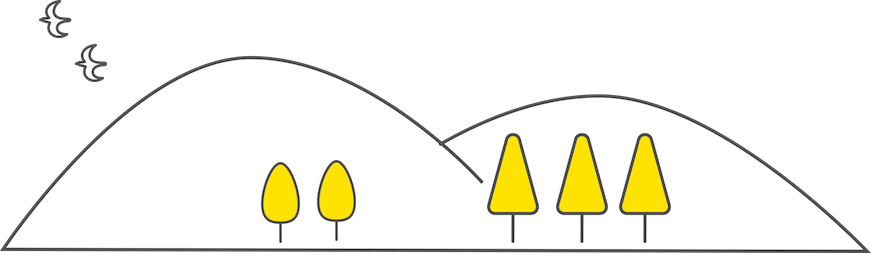
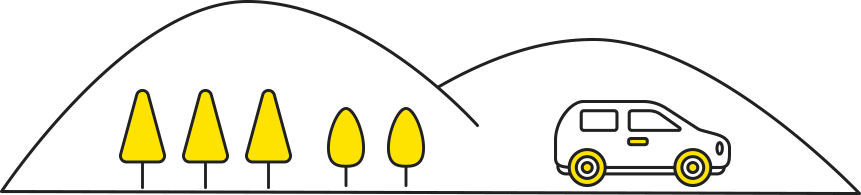
[fix]修正依頼6/23

diff --git a/assets/sass/object/component/_blockHeading.scss b/assets/sass/object/component/_blockHeading.scss
@@ -34,78 +34,77 @@
     width: 100%;
     position: absolute;
 
-    &--cloud {
-      max-width: 241px;
-      bottom: 25px;
-      left: 40px;
-      z-index: 1;
-      @media screen and (max-width: 1100px) {
-        max-width: 191px;
-        bottom: 83px;
-      }
-      @include g.mq(sp) {
-        max-width: 172px;
-        bottom: 139px;
-        left: 17px;
-      }
-      @include g.mq(xsp) {
-        max-width: 125px;
-        bottom: unset;
-        top: 24px;
-        left: 21px;
-      }
-    }
-  
-    &--house {
-      max-width: 214px;
-      bottom: 0;
-      left: 201px;
-      z-index: 2;
-      @media screen and (max-width: 1100px) {
-        left: 84px;
-      }
-      @include g.mq(sp) {
-        max-width: 208px;
-        left: 32px;
-      }
-      @include g.mq(xsp) {
-        max-width: 169px;
-        left: -18px;
-      }
-    }
-  
-    &--car {
-      max-width: 88px;
-      bottom: 0;
-      right: 350px;
-      z-index: 2;
-      @media screen and (max-width: 1100px) {
-        right: 205px;
-      }
-      @include g.mq(sp) {
-        max-width: 72px;
-      }
-      @include g.mq(xsp) {
-        max-width: 58.8px;
-        right: 110px;
-      }
-    }
-  
     &--mount {
-      max-width: 436px;
-      bottom: -3px;
-      right: -47px;
-      z-index: 1;
-      @media screen and (max-width: 1100px) {
-        right: -193px;
+      @extend .blockHeading__img;
+      max-width: 433px;
+      left: 0;
+      bottom: -4px;
+      @include g.mq(tab) {
+        max-width: 300px;
       }
       @include g.mq(sp) {
-        max-width: 361px;
-        right: -159px;
+        left: -50px;
       }
       @include g.mq(xsp) {
-        max-width: 292px;
-        right: -157px;
+        max-width: 277px;
+        left: -93px;
+      }
+    }
+
+    &--bird {
+      @extend .blockHeading__img;
+      max-width: 33px;
+      left: 70px;
+      bottom: 109px;
+      @include g.mq(tab) {
+        max-width: 28px;
+        left: 70px;
+        bottom: 92px;
+      }
+      @include g.mq(sp) {
+        max-width: 25px;
+        left: 21px;
+        bottom: 90px;
+      }
+    }
+
+    &--hotel {
+      @extend .blockHeading__img;
+      max-width: 195px;
+      right: 73px;
+      bottom: -5px;
+      @include g.mq(tab) {
+        max-width: 164px;
+        right: 50px;
+      }
+      @include g.mq(sp) {
+        max-width: 171px;
+        right: 10px;
+      }
+      @include g.mq(xsp) {
+        max-width: 136px;
+      }
+    }
+
+    &--cloud {
+      @extend .blockHeading__img;
+      max-width: 353px;
+      top: 33px;
+      right: 0;
+      @include g.mq(tab) {
+        max-width: 264px;
+        top: 65px;
+        right: 0;
+      }
+      @include g.mq(sp){
+        max-width: 262px;
+        top: 100px;
+        right: -69px;
+      }
+      @include g.mq(xsp) {
+       max-width: 253px;
+       top: 113px;
+       right: -186px;
       }
     }
   }

diff --git a/policy.html b/policy.html
@@ -21,32 +21,32 @@
           <h1 class="blockHeading__heading">会社理念</h1>
           <p class="blockHeading__subText">- our pilicy -</p>
           <img
-            src="assets/images/company/icon_heading_cloud.png"
-            alt=""
-            width="478"
-            height="220"
-            class="blockHeading__img blockHeading__img--cloud"
-          />
-          <img
-            src="assets/images/company/icon_heading_house.jpg"
-            alt=""
-            width="428"
-            height="228"
-            class="blockHeading__img blockHeading__img--house"
-          />
-          <img
-            src="assets/images/company/icon_heading_car.png"
-            alt=""
-            width="175"
-            height="86"
-            class="blockHeading__img blockHeading__img--car"
-          />
-          <img
             src="assets/images/company/icon_heading_mount.png"
             alt=""
-            width="871"
-            height="253"
-            class="blockHeading__img blockHeading__img--mount"
+            width="861"
+            height="195"
+            class="blockHeading__img--mount"
+          />
+          <img
+            src="assets/images/company/icon_heading_bird.png"
+            alt=""
+            width="66"
+            height="80"
+            class="blockHeading__img--bird"
+          />
+          <img
+            src="assets/images/company/icon_heading_hotel.png"
+            alt=""
+            width="390"
+            height="252"
+            class="blockHeading__img blockHeading__img--hotel"
+          />
+          <img
+            src="assets/images/company/icon_heading_cloud.png"
+            alt=""
+            width="706"
+            height="113"
+            class="blockHeading__img blockHeading__img--cloud"
           />
         </div>
       </div>

diff --git a/aboutus.html b/aboutus.html
@@ -21,32 +21,32 @@
           <h1 class="blockHeading__heading">会社概要</h1>
           <p class="blockHeading__subText">- about us -</p>
           <img
-            src="assets/images/company/icon_heading_cloud.png"
-            alt=""
-            width="478"
-            height="220"
-            class="blockHeading__img blockHeading__img--cloud"
-          />
-          <img
-            src="assets/images/company/icon_heading_house.jpg"
-            alt=""
-            width="428"
-            height="228"
-            class="blockHeading__img blockHeading__img--house"
-          />
-          <img
-            src="assets/images/company/icon_heading_car.png"
-            alt=""
-            width="175"
-            height="86"
-            class="blockHeading__img blockHeading__img--car"
-          />
-          <img
             src="assets/images/company/icon_heading_mount.png"
             alt=""
-            width="871"
-            height="253"
-            class="blockHeading__img blockHeading__img--mount"
+            width="861"
+            height="195"
+            class="blockHeading__img--mount"
+          />
+          <img
+            src="assets/images/company/icon_heading_bird.png"
+            alt=""
+            width="66"
+            height="80"
+            class="blockHeading__img--bird"
+          />
+          <img
+            src="assets/images/company/icon_heading_hotel.png"
+            alt=""
+            width="390"
+            height="252"
+            class="blockHeading__img blockHeading__img--hotel"
+          />
+          <img
+            src="assets/images/company/icon_heading_cloud.png"
+            alt=""
+            width="706"
+            height="113"
+            class="blockHeading__img blockHeading__img--cloud"
           />
         </div>
       </div>

diff --git a/history.html b/history.html
@@ -23,32 +23,32 @@
           <h1 class="blockHeading__heading">沿革</h1>
           <p class="blockHeading__subText">- history -</p>
           <img
-            src="assets/images/company/icon_heading_cloud.png"
-            alt=""
-            width="478"
-            height="220"
-            class="blockHeading__img blockHeading__img--cloud"
-          />
-          <img
-            src="assets/images/company/icon_heading_house.jpg"
-            alt=""
-            width="428"
-            height="228"
-            class="blockHeading__img blockHeading__img--house"
-          />
-          <img
-            src="assets/images/company/icon_heading_car.png"
-            alt=""
-            width="175"
-            height="86"
-            class="blockHeading__img blockHeading__img--car"
-          />
-          <img
             src="assets/images/company/icon_heading_mount.png"
             alt=""
-            width="871"
-            height="253"
-            class="blockHeading__img blockHeading__img--mount"
+            width="861"
+            height="195"
+            class="blockHeading__img--mount"
+          />
+          <img
+            src="assets/images/company/icon_heading_bird.png"
+            alt=""
+            width="66"
+            height="80"
+            class="blockHeading__img--bird"
+          />
+          <img
+            src="assets/images/company/icon_heading_hotel.png"
+            alt=""
+            width="390"
+            height="252"
+            class="blockHeading__img blockHeading__img--hotel"
+          />
+          <img
+            src="assets/images/company/icon_heading_cloud.png"
+            alt=""
+            width="706"
+            height="113"
+            class="blockHeading__img blockHeading__img--cloud"
           />
         </div>
       </div>

diff --git a/assets/sass/foundation/_base.scss b/assets/sass/foundation/_base.scss
@@ -53,6 +53,12 @@ body {
   font-family: 'Noto Sans JP', 'Montserrat', sans-serif;
 }
 
+.main {
+  @include g.mq(sp) {
+    margin-top: 17.949vw;
+  }
+}
+
 a {
   text-decoration: none;
 }
@@ -60,6 +66,10 @@ a {
 img {
   max-width: 100%;
   height: auto;
+}
+
+p {
+  margin: 0;
 }
 
 .br768on {
